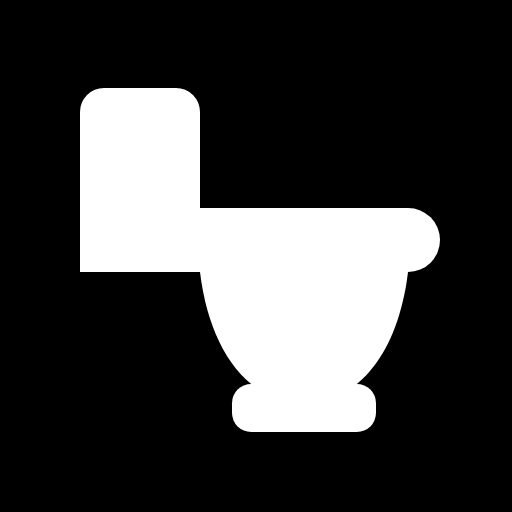
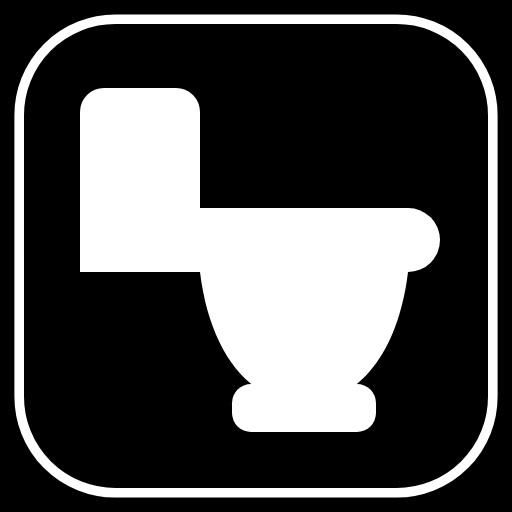
Liseré blanc fin sur l'icone de l'app (version 1.0.3)
Cadre blanc de 1,2/64 pose a 3,75 % du bord, avec un arrondi de 19 % : il reste
entier apres l'arrondi que l'iPhone applique lui-meme (verifie en simulant le
masque a 120 et 60 px). La variante maskable reste sans cadre, le lanceur
Android y applique son propre masque qui le couperait.

Changed region(s): [[0.0, 0.0, 1.0, 1.0]]

diff --git a/sw.js b/sw.js
@@ -5,7 +5,7 @@
 /* Version de l'app. Elle doit rester identique à celle de js/version.js :
    un test unitaire le vérifie. C'est volontairement une copie et non un import,
    car le navigateur ne détecte une mise à jour que si le contenu de CE fichier change. */
-const VERSION = '1.0.2';
+const VERSION = '1.0.3';
 
 const CACHE_PREFIX = 'compteur-wc-';
 const CACHE_NAME = CACHE_PREFIX + VERSION;

diff --git a/js/version.js b/js/version.js
@@ -6,4 +6,4 @@
  * changement de `sw.js` qui fait détecter la mise à jour au navigateur. Un test unitaire
  * refuse que les deux (et `package.json`) divergent. À incrémenter partout à chaque mise en ligne.
  */
-self.APP_VERSION = '1.0.2';
+self.APP_VERSION = '1.0.3';
